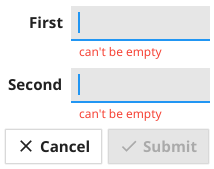
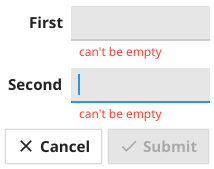
fix form test to ensure we are not committing invalid test images

Changed region(s): [[0.3364, 0.0592, 0.9813, 0.2663]]

diff --git a/widget/form_test.go b/widget/form_test.go
@@ -220,6 +220,8 @@ func TestForm_EntryValidation_FirstTypeValid(t *testing.T) {
 
 	test.Type(entry1, "H")
 	test.Type(entry2, "L")
+	entry1.focused = false
+	entry1.Refresh()
 	w = test.NewWindow(form)
 
 	test.AssertImageMatches(t, "form/validation_entry_first_type_valid.png", w.Canvas().Capture())
